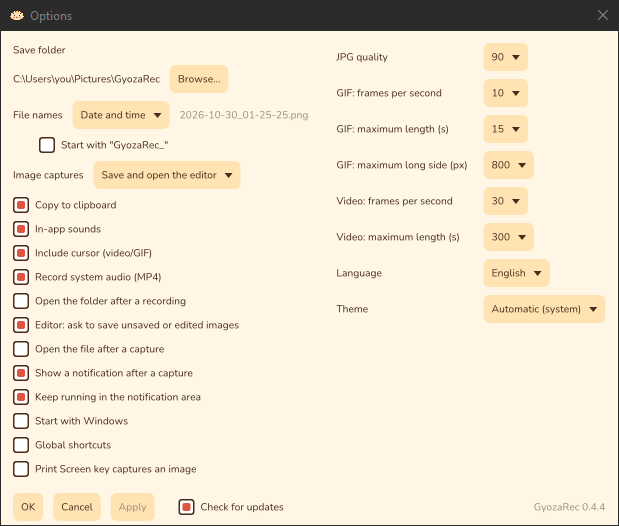
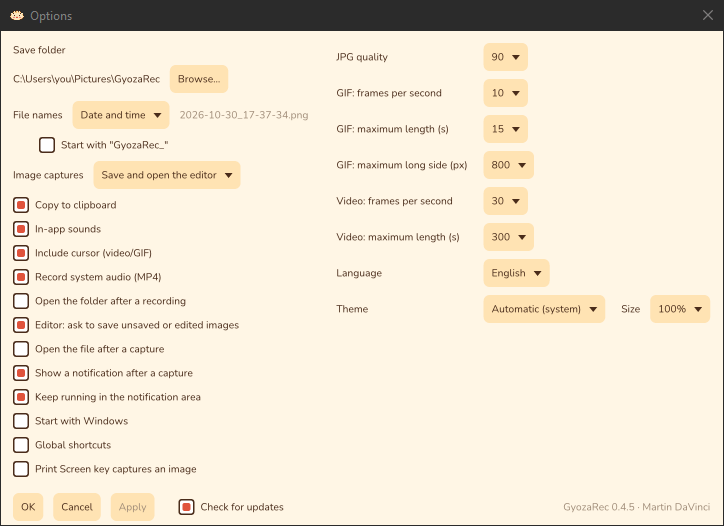
docs: 0.4.5 changelog, screenshot and version

diff --git a/CHANGELOG.md b/CHANGELOG.md
@@ -2,6 +2,12 @@
 
 All notable changes to GyozaRec are listed here. The format follows [Keep a Changelog](https://keepachangelog.com/en/1.1.0/), and versions follow [Semantic Versioning](https://semver.org/).
 
+## [0.4.5] - 2026-10-30
+
+### Added
+- Interface size in Options, next to Theme: 100 % to 200 % on top of Windows' display scale, for every window and the capture bar; it shows at once, like the theme. Ctrl + mouse wheel or Ctrl +/- on the toolbar change it too. Options itself grows only as far as it still fits the screen.
+- The author's name next to the version at the bottom of Options.
+
 ## [0.4.4] - 2026-10-30
 
 ### Added
@@ -101,6 +107,7 @@ All notable changes to GyozaRec are listed here. The format follows [Keep a Chan
 - Interface in nine languages, detected from Windows.
 - Per-user MSI installer and portable zip.
 
+[0.4.5]: https://github.com/martindavinci/GyozaRec/compare/v0.4.4...v0.4.5
 [0.4.4]: https://github.com/martindavinci/GyozaRec/compare/v0.4.3...v0.4.4
 [0.4.3]: https://github.com/martindavinci/GyozaRec/compare/v0.4.2...v0.4.3
 [0.4.2]: https://github.com/martindavinci/GyozaRec/compare/v0.4.1...v0.4.2
